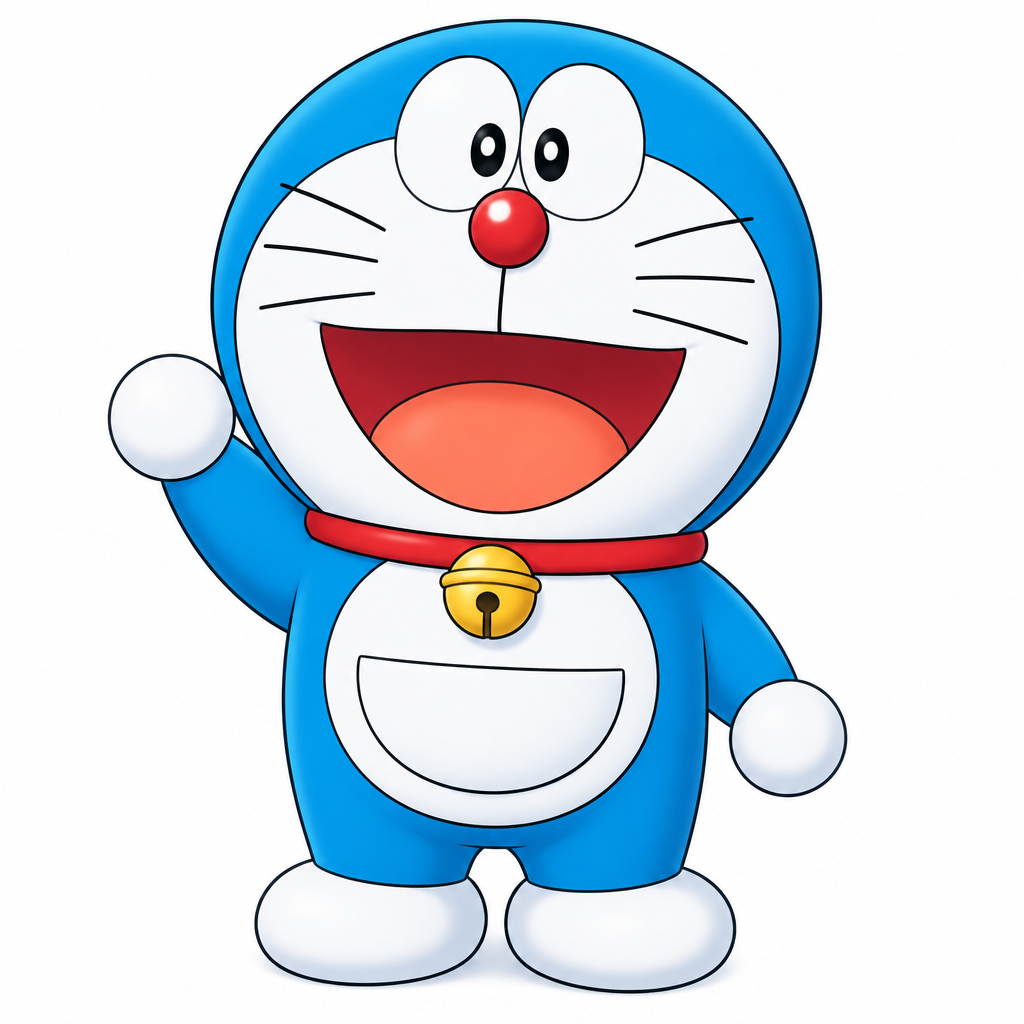
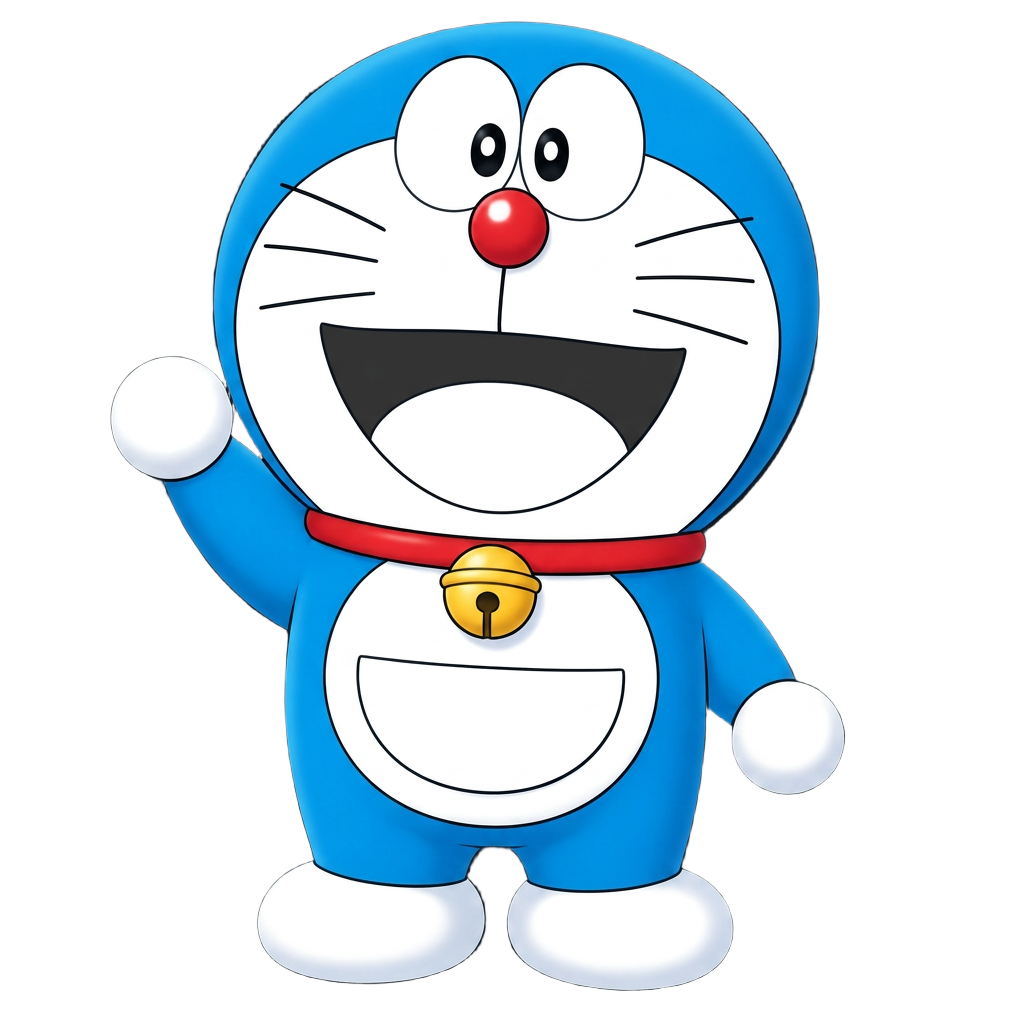
Changes

diff --git a/src/routes/index.tsx b/src/routes/index.tsx
@@ -37,7 +37,7 @@ function Index() {
         alt="Doraemon"
         width={1024}
         height={1024}
-        className="relative size-40 rounded-lg object-contain shadow-2xl"
+        className="relative size-40 object-contain"
       />
       <h1 className="relative mt-6 font-display text-5xl font-bold tracking-tight">Doraemon</h1>
       <p className="relative mt-3 max-w-sm text-muted-foreground">

diff --git a/roadmap.md b/roadmap.md
@@ -5,4 +5,5 @@
 - [x] Remove Lovable login; retain Google and email/password.
 - [x] Add voice readouts while preserving floating composer and sequential glass bubbles.
 - [x] Verify chat creation, streamed reply, saved reload, menu, login presentation and voice-control dispatch on desktop/mobile. Audible output and microphone permission remain browser/device dependent.
-- [ ] Transparent illustration retry awaits the user's answer; current full-body illustration has a white background.
+- [ ] Remove the full-body avatar's white exterior while retaining white character details.
+- [ ] Verify transparent avatars, dark sky-blue glow, face watermark, right menu and consecutive glass bubbles in the signed-in chat.
